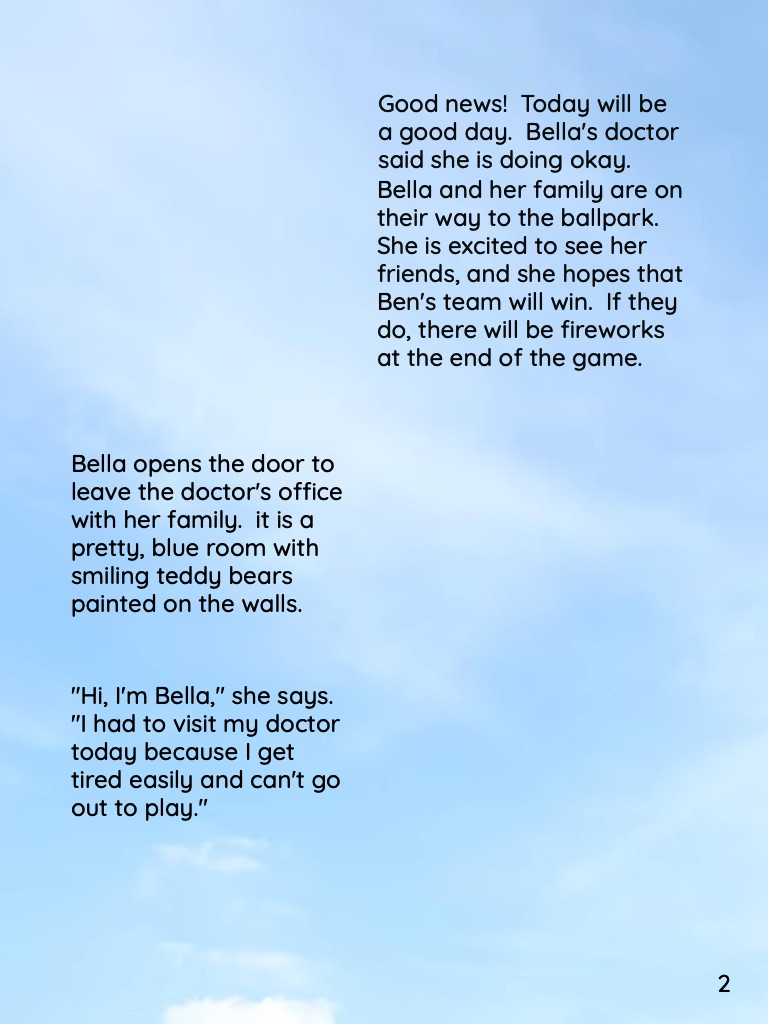
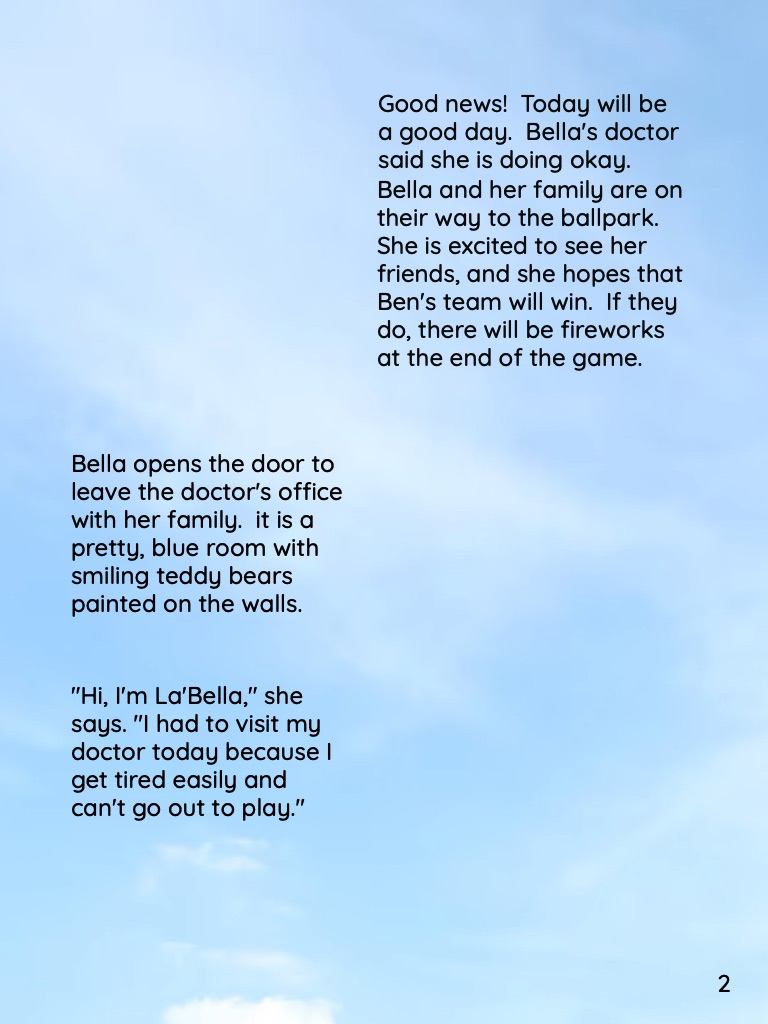
Name Updated
Updated Bella to La'Bella

Changed region(s): [[0.0938, 0.6562, 0.4375, 0.8125]]

diff --git a/Payload/1.1.1/META-INF/com.pubcoder.xreader.meta.js b/Payload/1.1.1/META-INF/com.pubcoder.xreader.meta.js
@@ -1,1 +1,1 @@
-app.rendition.data = {"assets":["assets/images/blue-sky-cloud.jpg","assets/audio/Baseball.mp3","assets/images/obj364_image.jpeg","assets/images/obj442_image.png","assets/images/obj368_image.png","assets/1/thumbnail.png","assets/1/loading.jpg","assets/images/obj286_image.png","assets/2/thumbnail.png","assets/2/loading.jpg","assets/images/obj299_image.jpeg","assets/images/obj301_image.png","assets/images/obj478_image.png","assets/audio/door-open-and-close.mp3","assets/3/thumbnail.png","assets/3/loading.jpg","assets/images/obj306_image.jpeg","assets/images/obj310_image.png","assets/audio/reading.mp3","assets/4/thumbnail.png","assets/4/loading.jpg","assets/images/Fireworks.gif","assets/audio/fireworks.mp3","assets/images/obj389_image.png","assets/5/thumbnail.png","assets/5/loading.jpg","assets/images/obj63_image.png","assets/audio/Playground.mp3","assets/6/thumbnail.png","assets/6/loading.jpg","assets/images/obj68_image.png","assets/audio/RollerBlade.mp3","assets/7/thumbnail.png","assets/7/loading.jpg","assets/images/obj58_image.png","assets/images/notes.gif","assets/images/obj490_image.png","assets/audio/ouside-noises.mp3","assets/8/thumbnail.png","assets/8/loading.jpg","assets/images/Flowers-2.png","assets/9/thumbnail.png","assets/9/loading.jpg","assets/10/thumbnail.png","assets/10/loading.jpg","assets/audio/Cheering.mp3","assets/images/obj124_image.png","assets/11/thumbnail.png","assets/11/loading.jpg","assets/12/thumbnail.png","assets/12/loading.jpg"],"meta":{"author":"pwj11","cover":"assets/images/pubcoder_book_cover.jpg","created":"2024-07-15 19:19:51","description":"Powered by PubCoder","height":1024,"identifier":"97B67C4DD58C2F488F9C17BD612E8D17","language":"en","orientation":"auto","page-progression-direction":"ltr","publisher":"pwj11","rights":"© 2024 pwj11","title":"Bella Bellows","width":768},"options":{"autoplay":true,"enableAnnotations":false,"enableReadaloud":false,"enableSearch":false,"enableSoundtrack":false,"enableThumbnails":true,"navigationArrows":true,"pinchToZoom":false,"soundtrackVolumeDefault":80,"swipeToNavigate":false,"touchToOpenAppMenu":false,"viewportFitCover":true},"pages":[{"id":2,"loadingImageUrl":"assets/1/loading.jpg","number":1,"thumbnailImageUrl":"assets/1/thumbnail.png","title":"1","url":"assets/1/page.xhtml"},{"id":281,"loadingImageUrl":"assets/2/loading.jpg","number":2,"thumbnailImageUrl":"assets/2/thumbnail.png","title":"2","url":"assets/2/page.xhtml"},{"id":298,"loadingImageUrl":"assets/3/loading.jpg","number":3,"thumbnailImageUrl":"assets/3/thumbnail.png","title":"3","url":"assets/3/page.xhtml"},{"id":305,"loadingImageUrl":"assets/4/loading.jpg","number":4,"thumbnailImageUrl":"assets/4/thumbnail.png","title":"4","url":"assets/4/page.xhtml"},{"id":21,"loadingImageUrl":"assets/5/loading.jpg","number":5,"thumbnailImageUrl":"assets/5/thumbnail.png","title":"5","url":"assets/5/page.xhtml"},{"id":19,"loadingImageUrl":"assets/6/loading.jpg","number":6,"thumbnailImageUrl":"assets/6/thumbnail.png","title":"6","url":"assets/6/page.xhtml"},{"id":20,"loadingImageUrl":"assets/7/loading.jpg","number":7,"thumbnailImageUrl":"assets/7/thumbnail.png","title":"7","url":"assets/7/page.xhtml"},{"id":18,"loadingImageUrl":"assets/8/loading.jpg","number":8,"thumbnailImageUrl":"assets/8/thumbnail.png","title":"8","url":"assets/8/page.xhtml"},{"id":23,"loadingImageUrl":"assets/9/loading.jpg","number":9,"thumbnailImageUrl":"assets/9/thumbnail.png","title":"9","url":"assets/9/page.xhtml"},{"id":189,"loadingImageUrl":"assets/10/loading.jpg","number":10,"thumbnailImageUrl":"assets/10/thumbnail.png","title":"10","url":"assets/10/page.xhtml"},{"id":24,"loadingImageUrl":"assets/11/loading.jpg","number":11,"thumbnailImageUrl":"assets/11/thumbnail.png","title":"11","url":"assets/11/page.xhtml"},{"id":428,"loadingImageUrl":"assets/12/loading.jpg","number":12,"thumbnailImageUrl":"assets/12/thumbnail.png","title":"12","url":"assets/12/page.xhtml"}],"toc":[{"pageNumber":1,"title":"Chapter 1","url":"assets/1/page.xhtml"}]};
+app.rendition.data = {"assets":["assets/images/blue-sky-cloud.jpg","assets/audio/Baseball.mp3","assets/images/obj364_image.jpeg","assets/images/obj442_image.png","assets/images/obj368_image.png","assets/1/thumbnail.png","assets/1/loading.jpg","assets/images/obj286_image.png","assets/2/thumbnail.png","assets/2/loading.jpg","assets/images/obj299_image.jpeg","assets/images/obj301_image.png","assets/images/obj478_image.png","assets/audio/door-open-and-close.mp3","assets/3/thumbnail.png","assets/3/loading.jpg","assets/images/obj306_image.jpeg","assets/images/obj310_image.png","assets/audio/reading.mp3","assets/4/thumbnail.png","assets/4/loading.jpg","assets/images/Fireworks.gif","assets/audio/fireworks.mp3","assets/images/obj389_image.png","assets/5/thumbnail.png","assets/5/loading.jpg","assets/images/obj63_image.png","assets/audio/Playground.mp3","assets/6/thumbnail.png","assets/6/loading.jpg","assets/images/obj68_image.png","assets/audio/RollerBlade.mp3","assets/7/thumbnail.png","assets/7/loading.jpg","assets/images/obj58_image.png","assets/images/notes.gif","assets/images/obj490_image.png","assets/audio/ouside-noises.mp3","assets/8/thumbnail.png","assets/8/loading.jpg","assets/images/Flowers-2.png","assets/9/thumbnail.png","assets/9/loading.jpg","assets/10/thumbnail.png","assets/10/loading.jpg","assets/audio/Cheering.mp3","assets/images/obj124_image.png","assets/11/thumbnail.png","assets/11/loading.jpg","assets/12/thumbnail.png","assets/12/loading.jpg"],"meta":{"author":"pwj11","cover":"assets/images/pubcoder_book_cover.jpg","created":"2024-07-22 15:51:18","description":"Powered by PubCoder","height":1024,"identifier":"97B67C4DD58C2F488F9C17BD612E8D17","language":"en","orientation":"auto","page-progression-direction":"ltr","publisher":"pwj11","rights":"© 2024 pwj11","title":"Bella Bellows","width":768},"options":{"autoplay":true,"enableAnnotations":false,"enableReadaloud":false,"enableSearch":false,"enableSoundtrack":false,"enableThumbnails":true,"navigationArrows":true,"pinchToZoom":false,"soundtrackVolumeDefault":80,"swipeToNavigate":false,"touchToOpenAppMenu":false,"viewportFitCover":true},"pages":[{"id":2,"loadingImageUrl":"assets/1/loading.jpg","number":1,"thumbnailImageUrl":"assets/1/thumbnail.png","title":"1","url":"assets/1/page.xhtml"},{"id":281,"loadingImageUrl":"assets/2/loading.jpg","number":2,"thumbnailImageUrl":"assets/2/thumbnail.png","title":"2","url":"assets/2/page.xhtml"},{"id":298,"loadingImageUrl":"assets/3/loading.jpg","number":3,"thumbnailImageUrl":"assets/3/thumbnail.png","title":"3","url":"assets/3/page.xhtml"},{"id":305,"loadingImageUrl":"assets/4/loading.jpg","number":4,"thumbnailImageUrl":"assets/4/thumbnail.png","title":"4","url":"assets/4/page.xhtml"},{"id":21,"loadingImageUrl":"assets/5/loading.jpg","number":5,"thumbnailImageUrl":"assets/5/thumbnail.png","title":"5","url":"assets/5/page.xhtml"},{"id":19,"loadingImageUrl":"assets/6/loading.jpg","number":6,"thumbnailImageUrl":"assets/6/thumbnail.png","title":"6","url":"assets/6/page.xhtml"},{"id":20,"loadingImageUrl":"assets/7/loading.jpg","number":7,"thumbnailImageUrl":"assets/7/thumbnail.png","title":"7","url":"assets/7/page.xhtml"},{"id":18,"loadingImageUrl":"assets/8/loading.jpg","number":8,"thumbnailImageUrl":"assets/8/thumbnail.png","title":"8","url":"assets/8/page.xhtml"},{"id":23,"loadingImageUrl":"assets/9/loading.jpg","number":9,"thumbnailImageUrl":"assets/9/thumbnail.png","title":"9","url":"assets/9/page.xhtml"},{"id":189,"loadingImageUrl":"assets/10/loading.jpg","number":10,"thumbnailImageUrl":"assets/10/thumbnail.png","title":"10","url":"assets/10/page.xhtml"},{"id":24,"loadingImageUrl":"assets/11/loading.jpg","number":11,"thumbnailImageUrl":"assets/11/thumbnail.png","title":"11","url":"assets/11/page.xhtml"},{"id":428,"loadingImageUrl":"assets/12/loading.jpg","number":12,"thumbnailImageUrl":"assets/12/thumbnail.png","title":"12","url":"assets/12/page.xhtml"}],"toc":[{"pageNumber":1,"title":"Chapter 1","url":"assets/1/page.xhtml"}]};

diff --git a/Payload/settings.js b/Payload/settings.js
@@ -1,1 +1,1 @@
-PubViewer.Document.Settings = {"appIdentifier":"22D548AFF82C4544BEC583F9440EFE65","appName":"Bella Bellows","backgroundColor":"#EFEEE8","facingPagesInLandscape":false,"lockOrientation":false,"restoreLatestPage":true};
+PubViewer.Document.Settings = {"appIdentifier":"C89BAC1A3DC24B39BBC962A3AE9B64E5","appName":"Bella Bellows","backgroundColor":"#EFEEE8","facingPagesInLandscape":false,"lockOrientation":false,"restoreLatestPage":true};
